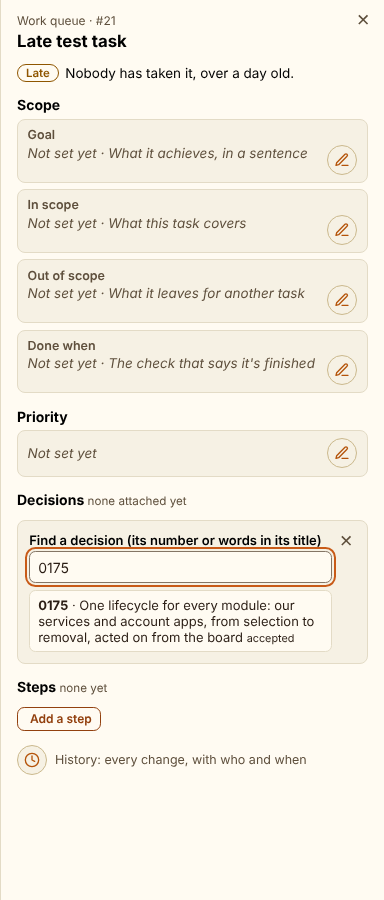
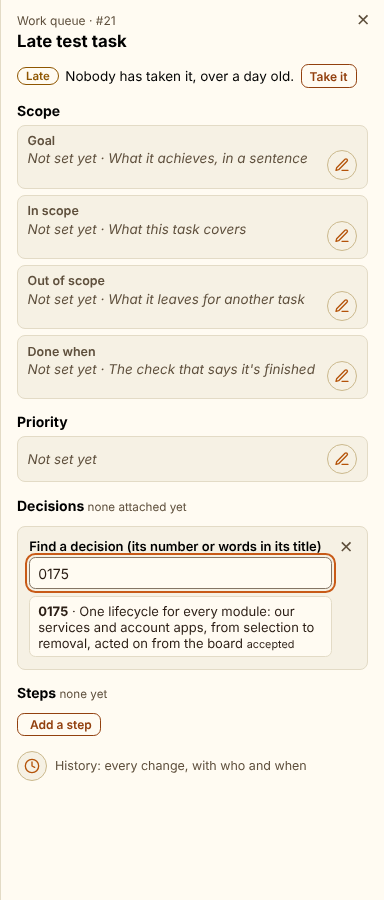
task-scope, task-adrs: the Design reviewer's three notes (steps read in order, Not set yet, the task's next step at the top)
Claude-Session: https://claude.ai/code/session_01CXLi5gqPa5AQKoZXC7gZxx

Changed region(s): [[0.0312, 0.0622, 0.9375, 0.8711], [0.8438, 0.4667, 0.9375, 0.5289], [0.7812, 0.0622, 0.9375, 0.0933]]

diff --git a/handoffs/task-adrs/build/website/js/admin-control.js b/handoffs/task-adrs/build/website/js/admin-control.js
@@ -648,13 +648,20 @@
     e.preventDefault();
     var pg = t.closest('.wqp'), id = act === 'retry' ? t.getAttribute('data-id') : pg && pg.getAttribute('data-wqp-id');
     if (act === 'retry') { wqpLoad(id); return; }
+    if (act === 'take') { wqpSend(t, { action: 'qassign', id: id }, id, '.wqp-st'); return; }
+    if (act === 'rel') {   // its release, named in place (a dialog would open behind the panel)
+      var stl = t.closest('.wqp-st'); if (stl.nextElementSibling && stl.nextElementSibling.classList.contains('wqp-rf')) { stl.nextElementSibling.querySelector('input').focus(); return; }
+      var rf = document.createElement('form'); rf.className = 'wq-form wqp-ef wqp-rf';
+      rf.innerHTML = '<label>The release that fixes it (its zip\'s name; the task is done by itself once it\'s live)<input name="rel" maxlength="120" required spellcheck="false" placeholder="e.g. work-queue.zip"></label><div class="cbg-acts"><button type="submit" class="cbg-b">Name its release</button><button type="button" class="cbg-b cbg-o" data-wqp="ecancel">Cancel</button></div>';
+      stl.insertAdjacentElement('afterend', rf); rf.rel.focus(); return;
+    }
     if (act === 'edit') {   // a scope field: Edit in place, the old words kept in its History
       var dd = t.closest('dd'); if (dd.querySelector('.wqp-ef')) { dd.querySelector('textarea').focus(); return; }
       var f = document.createElement('form'); f.className = 'wq-form wqp-ef'; f.setAttribute('data-f', t.getAttribute('data-f'));
       f.innerHTML = '<label>' + cbgEsc(t.getAttribute('data-l')) + '<textarea name="v" rows="3" maxlength="4000" data-spell></textarea></label><div class="cbg-acts"><button type="submit" class="cbg-b">Save ' + cbgEsc(t.getAttribute('data-l').toLowerCase()) + '</button><button type="button" class="cbg-b cbg-o" data-wqp="ecancel">Cancel</button></div>';
       f.v.value = t.getAttribute('data-v') || ''; dd.parentNode.appendChild(f); f.v.focus(); return;
     }
-    if (act === 'ecancel') { var ef = t.closest('form'); var b0 = ef.classList.contains('wqp-pf') ? ef.previousElementSibling.querySelector('[data-wqp=prio]') : ef.classList.contains('wqp-ae') ? ef.previousElementSibling.querySelector('[data-wqp=adredit]') : ef.parentNode.querySelector('[data-wqp=edit],[data-wqp=sedit]'); ef.remove(); if (b0) b0.focus(); return; }
+    if (act === 'ecancel') { var ef = t.closest('form'); var b0 = ef.classList.contains('wqp-rf') ? ef.previousElementSibling.querySelector('[data-wqp=rel]') : ef.classList.contains('wqp-pf') ? ef.previousElementSibling.querySelector('[data-wqp=prio]') : ef.classList.contains('wqp-ae') ? ef.previousElementSibling.querySelector('[data-wqp=adredit]') : ef.parentNode.querySelector('[data-wqp=edit],[data-wqp=sedit]'); ef.remove(); if (b0) b0.focus(); return; }
     if (act === 'prio') {   // the priority, in place: each choice with what it means (CLAUDE.md "Words and lists")
       var pr = t.closest('.wqp-pr'); if (pr.nextElementSibling && pr.nextElementSibling.classList.contains('wqp-pf')) { pr.nextElementSibling.querySelector('input').focus(); return; }
       var cur = t.getAttribute('data-v') || '', ch = [['1', 'Priority 1', 'first: the next one taken'], ['2', 'Priority 2', 'next, once the 1s are taken'], ['3', 'Priority 3', 'when there\'s room'], ['', 'Not set', 'listed after the ones with a priority']];
@@ -703,6 +710,7 @@
     if (f.classList.contains('wqp-se')) { var sid = f.closest('.wqp-step').getAttribute('data-sid'); wqpSend(btn, { action: 'qstepedit', id: sid, see: f.see.value, do_what: f.do_what.value, confirm: f.confirm.value, done: f.done.checked ? 1 : 0 }, id, '[data-sid="' + sid + '"]'); return; }
     if (f.hasAttribute('data-wqp-aform')) { wqpFind(f, id); return; }
     if (f.classList.contains('wqp-ae')) { wqpSend(btn, { action: 'qadrkeep', id: id, keep: [].map.call(f.querySelectorAll('input[name=keep]:checked'), function (x) { return x.value; }) }, id, '.wqp-adrs'); return; }
+    if (f.classList.contains('wqp-rf')) { wqpSend(btn, { action: 'qrelease', id: id, rel: f.rel.value.trim() }, id, '.wqp-st'); return; }
     if (f.classList.contains('wqp-pf')) { var pv = f.querySelector('input[name=p]:checked'); wqpSend(btn, { action: 'qedit', id: id, priority: pv ? pv.value : '' }, id, '.wqp-pr'); return; }
     var k = f.getAttribute('data-f'), body = { action: 'qedit', id: id }; body[k] = f.v.value;
     wqpSend(btn, body, id, '[data-wqp-f="' + k + '"]');

diff --git a/handoffs/task-scope/build/website/js/admin-control.js b/handoffs/task-scope/build/website/js/admin-control.js
@@ -639,13 +639,20 @@
     e.preventDefault();
     var pg = t.closest('.wqp'), id = act === 'retry' ? t.getAttribute('data-id') : pg && pg.getAttribute('data-wqp-id');
     if (act === 'retry') { wqpLoad(id); return; }
+    if (act === 'take') { wqpSend(t, { action: 'qassign', id: id }, id, '.wqp-st'); return; }
+    if (act === 'rel') {   // its release, named in place (a dialog would open behind the panel)
+      var stl = t.closest('.wqp-st'); if (stl.nextElementSibling && stl.nextElementSibling.classList.contains('wqp-rf')) { stl.nextElementSibling.querySelector('input').focus(); return; }
+      var rf = document.createElement('form'); rf.className = 'wq-form wqp-ef wqp-rf';
+      rf.innerHTML = '<label>The release that fixes it (its zip\'s name; the task is done by itself once it\'s live)<input name="rel" maxlength="120" required spellcheck="false" placeholder="e.g. work-queue.zip"></label><div class="cbg-acts"><button type="submit" class="cbg-b">Name its release</button><button type="button" class="cbg-b cbg-o" data-wqp="ecancel">Cancel</button></div>';
+      stl.insertAdjacentElement('afterend', rf); rf.rel.focus(); return;
+    }
     if (act === 'edit') {   // a scope field: Edit in place, the old words kept in its History
       var dd = t.closest('dd'); if (dd.querySelector('.wqp-ef')) { dd.querySelector('textarea').focus(); return; }
       var f = document.createElement('form'); f.className = 'wq-form wqp-ef'; f.setAttribute('data-f', t.getAttribute('data-f'));
       f.innerHTML = '<label>' + cbgEsc(t.getAttribute('data-l')) + '<textarea name="v" rows="3" maxlength="4000" data-spell></textarea></label><div class="cbg-acts"><button type="submit" class="cbg-b">Save ' + cbgEsc(t.getAttribute('data-l').toLowerCase()) + '</button><button type="button" class="cbg-b cbg-o" data-wqp="ecancel">Cancel</button></div>';
       f.v.value = t.getAttribute('data-v') || ''; dd.parentNode.appendChild(f); f.v.focus(); return;
     }
-    if (act === 'ecancel') { var ef = t.closest('form'); var b0 = ef.classList.contains('wqp-pf') ? ef.previousElementSibling.querySelector('[data-wqp=prio]') : ef.parentNode.querySelector('[data-wqp=edit],[data-wqp=sedit]'); ef.remove(); if (b0) b0.focus(); return; }
+    if (act === 'ecancel') { var ef = t.closest('form'); var b0 = ef.classList.contains('wqp-rf') ? ef.previousElementSibling.querySelector('[data-wqp=rel]') : ef.classList.contains('wqp-pf') ? ef.previousElementSibling.querySelector('[data-wqp=prio]') : ef.parentNode.querySelector('[data-wqp=edit],[data-wqp=sedit]'); ef.remove(); if (b0) b0.focus(); return; }
     if (act === 'prio') {   // the priority, in place: each choice with what it means (CLAUDE.md "Words and lists")
       var pr = t.closest('.wqp-pr'); if (pr.nextElementSibling && pr.nextElementSibling.classList.contains('wqp-pf')) { pr.nextElementSibling.querySelector('input').focus(); return; }
       var cur = t.getAttribute('data-v') || '', ch = [['1', 'Priority 1', 'first: the next one taken'], ['2', 'Priority 2', 'next, once the 1s are taken'], ['3', 'Priority 3', 'when there\'s room'], ['', 'Not set', 'listed after the ones with a priority']];
@@ -681,6 +688,7 @@
     var id = f.closest('.wqp').getAttribute('data-wqp-id'), btn = f.querySelector('[type=submit]');
     if (f.hasAttribute('data-wqp-sform')) { wqpSend(btn, { action: 'qstep', id: id, see: f.see.value, do_what: f.do_what.value, confirm: f.confirm.value }, id, '.wqp-steps li:last-child'); return; }
     if (f.classList.contains('wqp-se')) { var sid = f.closest('.wqp-step').getAttribute('data-sid'); wqpSend(btn, { action: 'qstepedit', id: sid, see: f.see.value, do_what: f.do_what.value, confirm: f.confirm.value, done: f.done.checked ? 1 : 0 }, id, '[data-sid="' + sid + '"]'); return; }
+    if (f.classList.contains('wqp-rf')) { wqpSend(btn, { action: 'qrelease', id: id, rel: f.rel.value.trim() }, id, '.wqp-st'); return; }
     if (f.classList.contains('wqp-pf')) { var pv = f.querySelector('input[name=p]:checked'); wqpSend(btn, { action: 'qedit', id: id, priority: pv ? pv.value : '' }, id, '.wqp-pr'); return; }
     var k = f.getAttribute('data-f'), body = { action: 'qedit', id: id }; body[k] = f.v.value;
     wqpSend(btn, body, id, '[data-wqp-f="' + k + '"]');

diff --git a/handoffs/task-adrs/build/app/admin/control-console.php b/handoffs/task-adrs/build/app/admin/control-console.php
@@ -1455,7 +1455,8 @@ function tv_cb_wq_page(PDO $pdo, int $id): string
         'withdrawn' => $e((string) $r['done_how']) . ($r['undone_at'] ? ', ' . $when((string) $r['undone_at']) : '') . '.'][$st];
     $ic = fn ($attrs, $icon, $title) => '<button type="button" class="cbg-ic" ' . $attrs . ' title="' . $e($title) . '" aria-label="' . $e($title) . '">' . tv_icon($icon, 'cbg-svg') . '</button>';
     $h .= '<div class="wqp" data-wqp-id="' . $id . '"><p class="cb-crumb">Work queue · #' . $id . '</p><h3 class="cb-title">' . $e($what) . '</h3>'
-        . '<p class="wqp-st"><span class="wq-pill wq-p-' . $pill[1] . '">' . $pill[0] . '</span> ' . $line . '</p>'
+        . '<p class="wqp-st"><span class="wq-pill wq-p-' . $pill[1] . '">' . $pill[0] . '</span> <span>' . $line . '</span>'
+        . (in_array($st, ['open', 'late'], true) ? '<button type="button" class="cbg-b cbg-sm cbg-o" data-wqp="take">Take it</button>' : ($st === 'taken' ? '<button type="button" class="cbg-b cbg-sm cbg-o" data-wqp="rel">Name its release</button>' : '')) . '</p>'
         . ($closed ? '<p data-tv-status="info" data-tv-label="Kept as it was:">A task that\'s done or withdrawn keeps its scope and steps as they were; its History has every change.</p>' : '');
     // the scope (goal, in, out, done when): each a field with ✎
     $labels = ['goal' => ['Goal', 'What it achieves, in a sentence'], 'in_scope' => ['In scope', 'What this task covers'], 'out_scope' => ['Out of scope', 'What it leaves for another task'], 'done_when' => ['Done when', 'The check that says it\'s finished']];
@@ -1487,9 +1488,12 @@ function tv_cb_wq_page(PDO $pdo, int $id): string
         $done = $s['done_at'] !== null;
         $h .= '<li class="wqp-step' . ($done ? ' wqp-done' : '') . '" data-sid="' . (int) $s['id'] . '" data-see="' . $e($s['see']) . '" data-do="' . $e($s['do_what']) . '" data-confirm="' . $e($s['confirm']) . '" data-done="' . ($done ? '1' : '') . '">'
             . '<div class="wqp-sh"><span class="wqp-n">' . (int) $s['pos'] . '</span><span class="wqp-do">' . $e($s['do_what']) . '</span>'
-            . (!$closed ? '<span class="wq-acts">' . (!$done ? '<button type="button" class="cbg-b cbg-sm cbg-o" data-wqp="confirm">Confirm it\'s done</button>' : '') . $ic('data-wqp="sedit"', 'pen', 'Edit step ' . (int) $s['pos']) . '</span>' : '') . '</div>'
-            . ($s['see'] !== '' ? '<p><b>See:</b> ' . $e($s['see']) . '</p>' : '') . ($s['confirm'] !== '' ? '<p><b>Confirm:</b> ' . $e($s['confirm']) . '</p>' : '')
-            . ($done ? '<p class="wqp-ok">Confirmed by ' . $e($s['done_by']) . ', ' . $when((string) $s['done_at'], (string) $s['tz']) . '.</p>' : '') . '<div class="wqp-slot"></div></li>';
+            . (!$closed ? $ic('data-wqp="sedit"', 'pen', 'Edit step ' . (int) $s['pos']) : '') . '</div>'
+            // read in order: what to see, how it's confirmed, then the press (the Design reviewer, 2026-11-24)
+            . '<p><b>See:</b> ' . ($s['see'] !== '' ? $e($s['see']) : '<span class="wqp-none">Not set yet</span>') . '</p>'
+            . '<p><b>Confirm:</b> ' . ($s['confirm'] !== '' ? $e($s['confirm']) : '<span class="wqp-none">Not set yet</span>') . '</p>'
+            . ($done ? '<p class="wqp-ok">Confirmed by ' . $e($s['done_by']) . ', ' . $when((string) $s['done_at'], (string) $s['tz']) . '.</p>'
+                : (!$closed ? '<button type="button" class="cbg-b cbg-sm cbg-o" data-wqp="confirm">Confirm it\'s done</button>' : '')) . '<div class="wqp-slot"></div></li>';
     }
     $h .= '</ol>';
     if (!$closed) $h .= '<button type="button" class="cbg-b cbg-o cbg-sm" data-wqp="sadd">' . tv_icon('plus', 'cbg-svg') . ' Add a step</button>'

diff --git a/handoffs/task-scope/build/app/admin/control-console.php b/handoffs/task-scope/build/app/admin/control-console.php
@@ -1455,7 +1455,8 @@ function tv_cb_wq_page(PDO $pdo, int $id): string
         'withdrawn' => $e((string) $r['done_how']) . ($r['undone_at'] ? ', ' . $when((string) $r['undone_at']) : '') . '.'][$st];
     $ic = fn ($attrs, $icon, $title) => '<button type="button" class="cbg-ic" ' . $attrs . ' title="' . $e($title) . '" aria-label="' . $e($title) . '">' . tv_icon($icon, 'cbg-svg') . '</button>';
     $h .= '<div class="wqp" data-wqp-id="' . $id . '"><p class="cb-crumb">Work queue · #' . $id . '</p><h3 class="cb-title">' . $e($what) . '</h3>'
-        . '<p class="wqp-st"><span class="wq-pill wq-p-' . $pill[1] . '">' . $pill[0] . '</span> ' . $line . '</p>'
+        . '<p class="wqp-st"><span class="wq-pill wq-p-' . $pill[1] . '">' . $pill[0] . '</span> <span>' . $line . '</span>'
+        . (in_array($st, ['open', 'late'], true) ? '<button type="button" class="cbg-b cbg-sm cbg-o" data-wqp="take">Take it</button>' : ($st === 'taken' ? '<button type="button" class="cbg-b cbg-sm cbg-o" data-wqp="rel">Name its release</button>' : '')) . '</p>'
         . ($closed ? '<p data-tv-status="info" data-tv-label="Kept as it was:">A task that\'s done or withdrawn keeps its scope and steps as they were; its History has every change.</p>' : '');
     // the scope (goal, in, out, done when): each a field with ✎
     $labels = ['goal' => ['Goal', 'What it achieves, in a sentence'], 'in_scope' => ['In scope', 'What this task covers'], 'out_scope' => ['Out of scope', 'What it leaves for another task'], 'done_when' => ['Done when', 'The check that says it\'s finished']];
@@ -1475,9 +1476,12 @@ function tv_cb_wq_page(PDO $pdo, int $id): string
         $done = $s['done_at'] !== null;
         $h .= '<li class="wqp-step' . ($done ? ' wqp-done' : '') . '" data-sid="' . (int) $s['id'] . '" data-see="' . $e($s['see']) . '" data-do="' . $e($s['do_what']) . '" data-confirm="' . $e($s['confirm']) . '" data-done="' . ($done ? '1' : '') . '">'
             . '<div class="wqp-sh"><span class="wqp-n">' . (int) $s['pos'] . '</span><span class="wqp-do">' . $e($s['do_what']) . '</span>'
-            . (!$closed ? '<span class="wq-acts">' . (!$done ? '<button type="button" class="cbg-b cbg-sm cbg-o" data-wqp="confirm">Confirm it\'s done</button>' : '') . $ic('data-wqp="sedit"', 'pen', 'Edit step ' . (int) $s['pos']) . '</span>' : '') . '</div>'
-            . ($s['see'] !== '' ? '<p><b>See:</b> ' . $e($s['see']) . '</p>' : '') . ($s['confirm'] !== '' ? '<p><b>Confirm:</b> ' . $e($s['confirm']) . '</p>' : '')
-            . ($done ? '<p class="wqp-ok">Confirmed by ' . $e($s['done_by']) . ', ' . $when((string) $s['done_at'], (string) $s['tz']) . '.</p>' : '') . '<div class="wqp-slot"></div></li>';
+            . (!$closed ? $ic('data-wqp="sedit"', 'pen', 'Edit step ' . (int) $s['pos']) : '') . '</div>'
+            // read in order: what to see, how it's confirmed, then the press (the Design reviewer, 2026-11-24)
+            . '<p><b>See:</b> ' . ($s['see'] !== '' ? $e($s['see']) : '<span class="wqp-none">Not set yet</span>') . '</p>'
+            . '<p><b>Confirm:</b> ' . ($s['confirm'] !== '' ? $e($s['confirm']) : '<span class="wqp-none">Not set yet</span>') . '</p>'
+            . ($done ? '<p class="wqp-ok">Confirmed by ' . $e($s['done_by']) . ', ' . $when((string) $s['done_at'], (string) $s['tz']) . '.</p>'
+                : (!$closed ? '<button type="button" class="cbg-b cbg-sm cbg-o" data-wqp="confirm">Confirm it\'s done</button>' : '')) . '<div class="wqp-slot"></div></li>';
     }
     $h .= '</ol>';
     if (!$closed) $h .= '<button type="button" class="cbg-b cbg-o cbg-sm" data-wqp="sadd">' . tv_icon('plus', 'cbg-svg') . ' Add a step</button>'

diff --git a/handoffs/task-scope.md b/handoffs/task-scope.md
@@ -18,9 +18,13 @@ Build in `task-scope/build/`, screens `task-scope/ts-*.png`, FAQ `task-scope/faq
 - New table `control_gauge_task_steps` (staging class OWN, R14); five columns on `control_gauge_tasks`; migration
   `2026-11-24_task_scope.sql` (guarded, safe twice, no data changed).
 
+- **The Design reviewer's notes (made):** a step reads See, Confirm, then its press; a missing See or Confirm says "Not set yet";
+  the task's own next step (Take it, then Name its release, outlined) sits beside its state at the top of the page; its release
+  is named in place (a dialog would open behind the panel's backdrop).
+
 ## Kept, moved, dropped
 Everything on the row kept (Take it, ✎ for what/why/source, History, ⋯). The priority chooser is a form in the panel (a
 `TvAsk.choose` dialog opened behind the panel's backdrop). Nothing dropped.
 
 ## Tests
-`tools/control-board-tests/task-scope.cjs` (36 at 1280 and 390); work-queue 84, gauge-panel 76, board-views 90 unchanged.
+`tools/control-board-tests/task-scope.cjs` (44 at 1280 and 390); work-queue 84, gauge-panel 76, board-views 90 unchanged.
